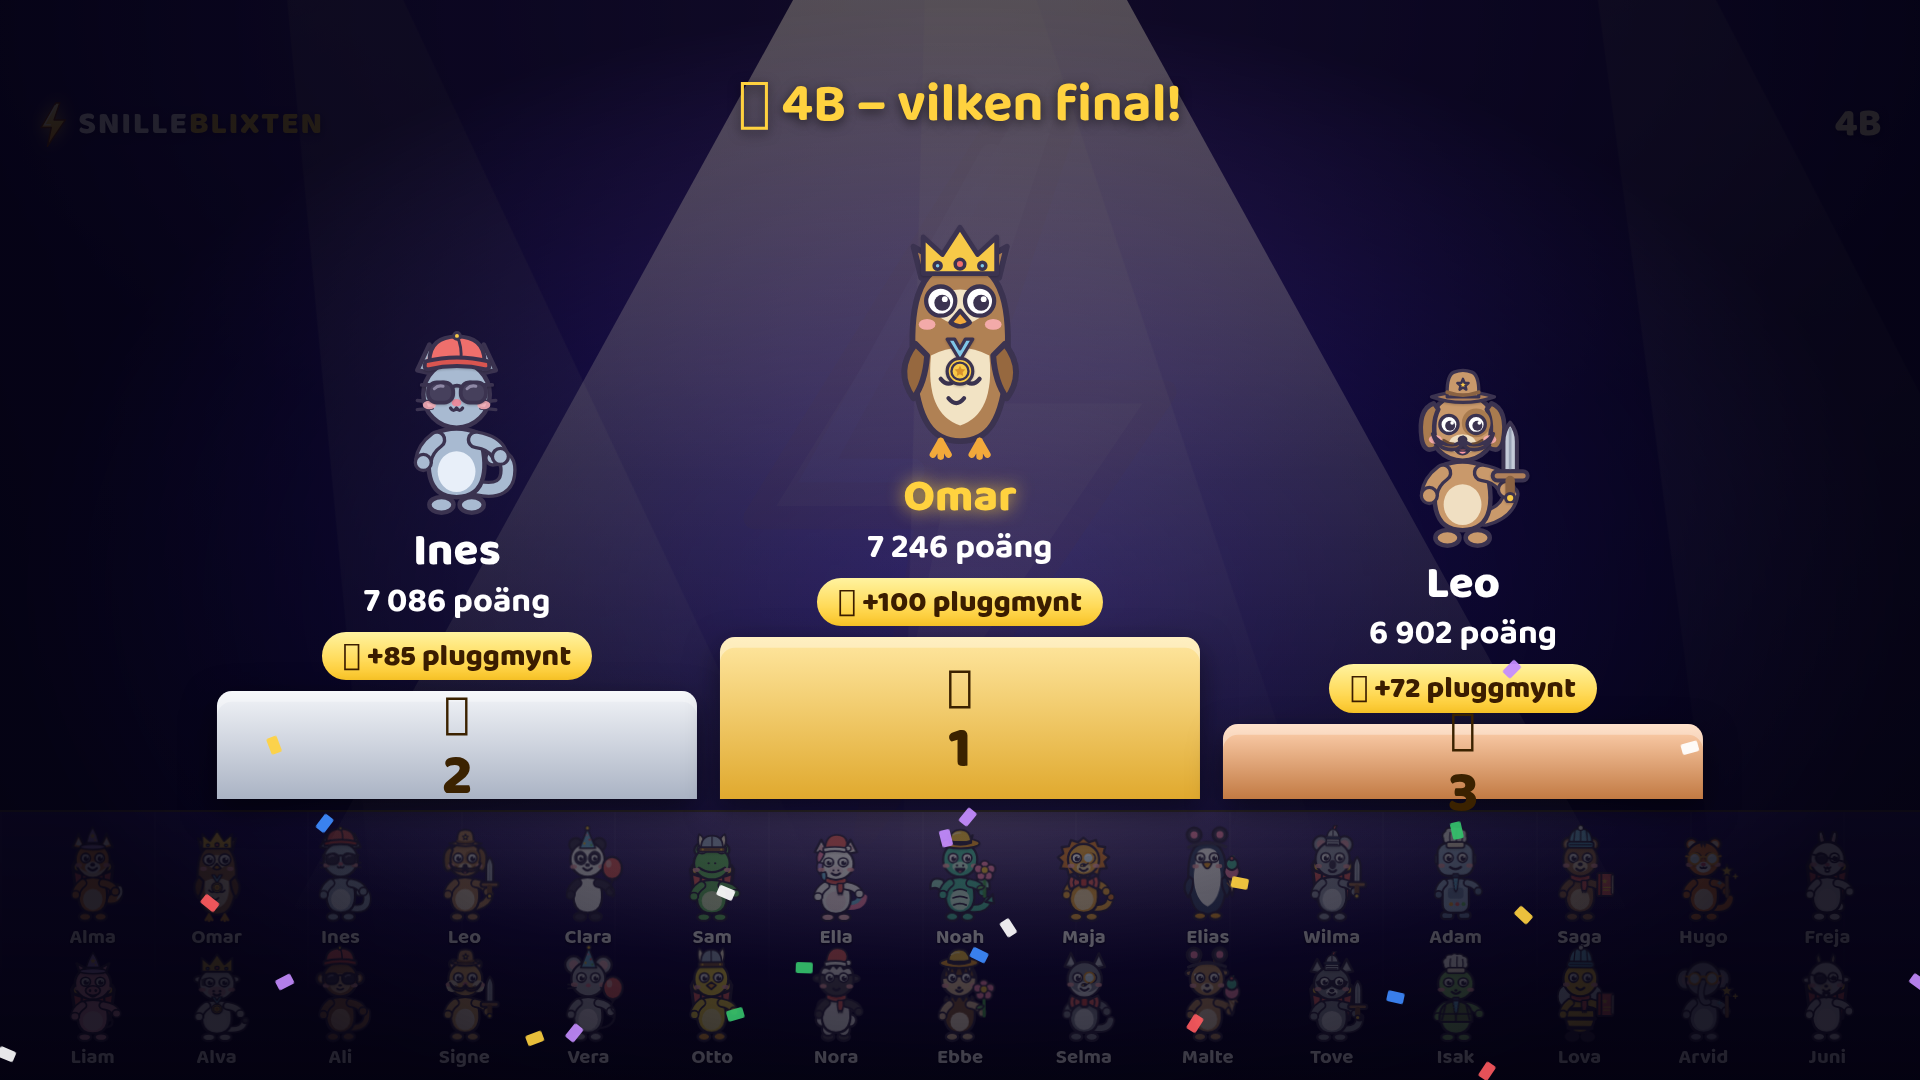
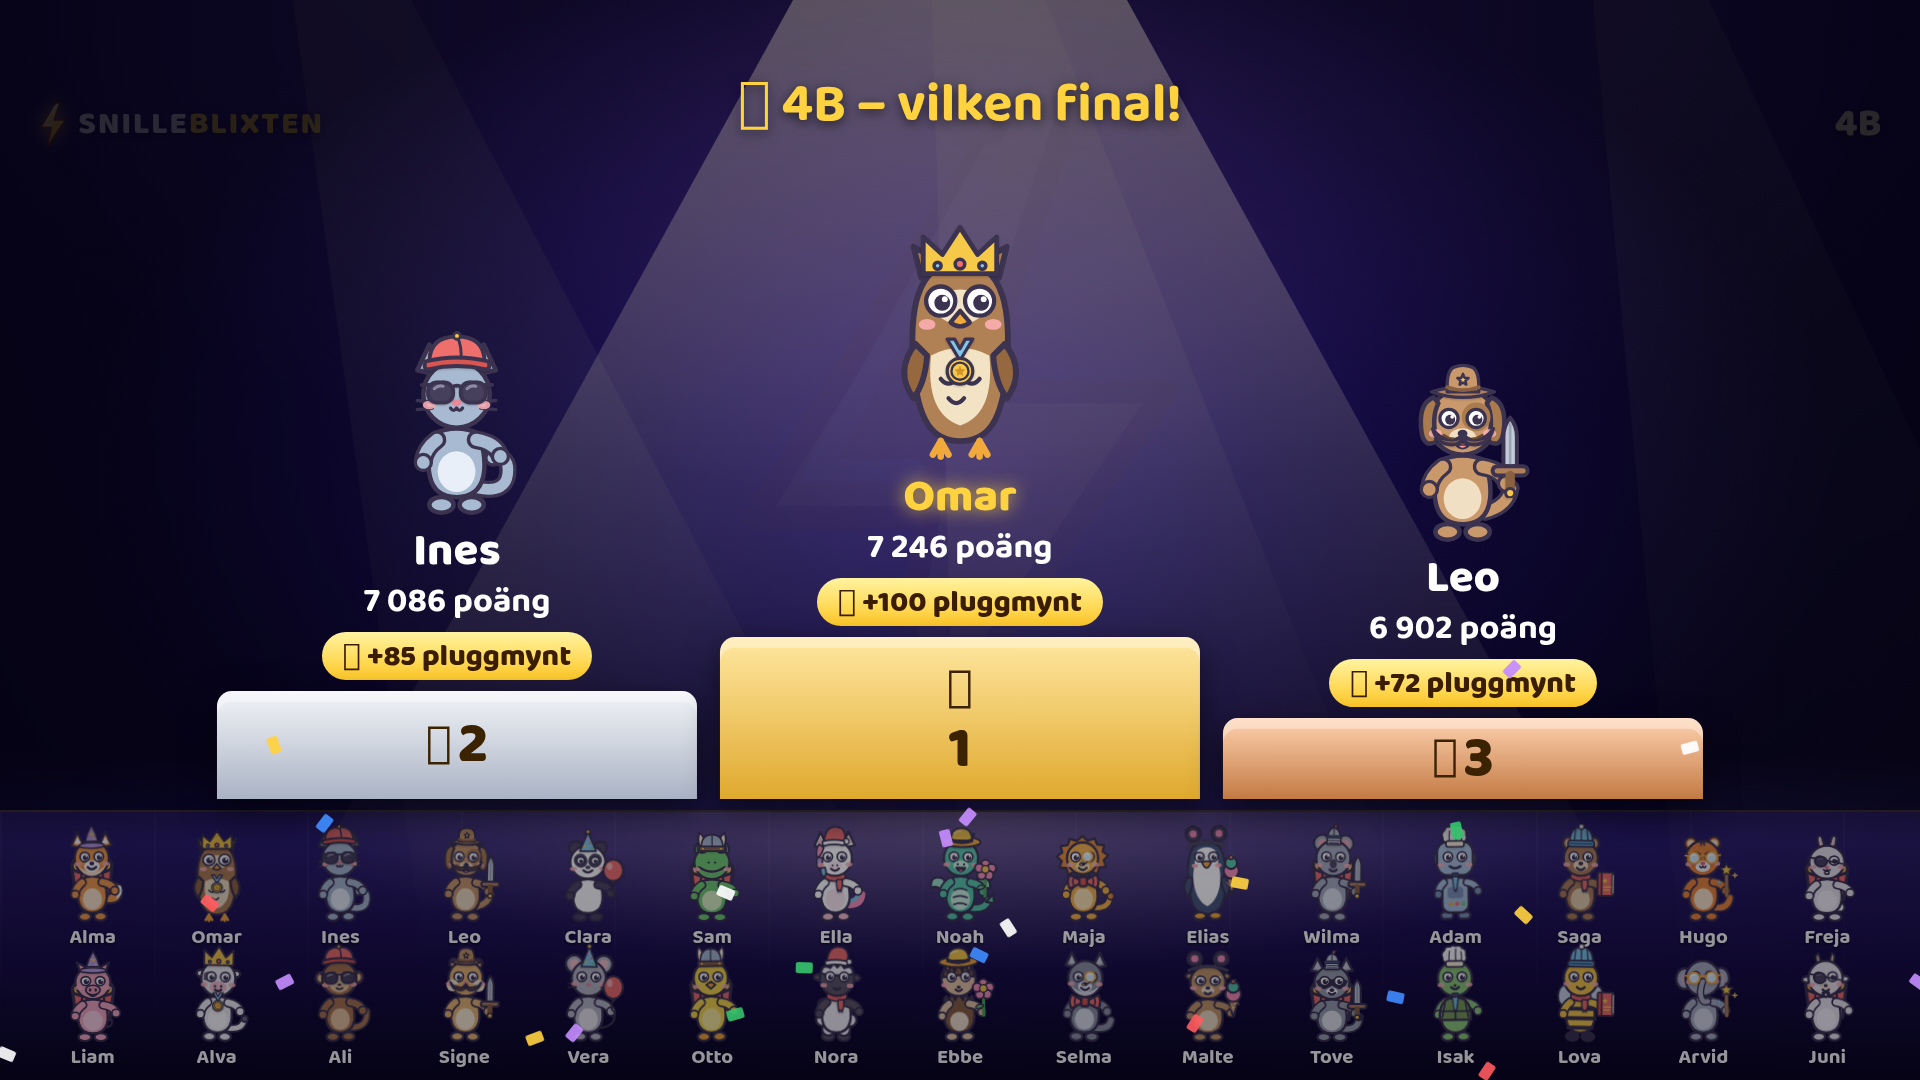
issue #559: design – reducerad rörelse för utropet, finalen ~9 s, ljusare publik i finalen, bronsblock, statistikkolumner; README med testresultat + skärmdumpar

Changed region(s): [[0.0, 0.3361, 1.0, 1.0], [0.2188, 0.6417, 0.25, 0.7333]]

diff --git a/src/live/formats/snilleblixt/sb-pall.js b/src/live/formats/snilleblixt/sb-pall.js
@@ -5,7 +5,7 @@
 //   ljuset dämpas + strålkastarna mot pallen → trumvirvel → 3:an kliver upp →
 //   trumvirvel → 2:an → längre trumvirvel → 1:an med stor blixt, konfetti och
 //   fanfar → vinnaren jublar, de andra (pallen + publiken) klappar/vinkar →
-//   resultatskärmen med hela klassens topplista.
+//   resultatskärmen med hela klassens topplista. Totalt ~8–9 s med tre pallsteg.
 // Delad placering = samma pallsteg (podiumGroups). Pluggmyntpriset för
 // placeringen visas under varje steg (sessionens rewards, #557). Figurerna
 // är avatarpoolens egna element (plats "pall"/"res") – kläderna följer med.
@@ -132,14 +132,14 @@ export function createFinal(host, { pool, sound, flashHost }) {
     // Ljuset dämpas, strålkastarna vänds mot pallen.
     root.getBoundingClientRect();
     root.classList.add("sbf-pa");
-    await wait(700, signal);
+    await wait(600, signal);
     const g = data.groups || [];
     const order = [g[2], g[1], g[0]].filter(Boolean);
     for (let i = 0; i < order.length; i++) {
       if (signal?.aborted) break;
       const winner = i === order.length - 1 && order[i] === g[0];
       sound?.cue?.("trumvirvel");
-      await wait(winner ? 1700 : 1150, signal);
+      await wait(winner ? 1400 : 1000, signal);
       if (winner) {
         if (flashHost) flash(flashHost, { strong: true });
         sound?.cue?.("fanfar");
@@ -152,7 +152,7 @@ export function createFinal(host, { pool, sound, flashHost }) {
         for (const grp of g.slice(1)) for (const p of grp.players) react(pool.el(p.uid, "pall"), "glad", { signal });
         data.cheer?.(g[0].players.map((p) => p.uid));
       }
-      await wait(winner ? 1900 : 450, signal);
+      await wait(winner ? 1000 : 350, signal);
     }
     if (!order.length) await wait(600, signal);
     showResult(data);

diff --git a/src/live/formats/snilleblixt/sb-studio.js b/src/live/formats/snilleblixt/sb-studio.js
@@ -22,7 +22,7 @@
 import { createAvatarPool } from "../../design/live-avatar-pool.js";
 import { createBanner } from "../../design/live-banner.js";
 import { createLiveRegi } from "../../design/live-regi.js";
-import { react } from "../../design/live-reactions.js";
+import { react, prefersReducedMotion } from "../../design/live-reactions.js";
 import { sessionRewards, placementPrize } from "../../live-rewards.js";
 import { toMs } from "../../live-time.js";
 import { studioScene, questionClock, shownScores, revealInfo, streaks, podiumGroups } from "./sb-scen.js";
@@ -138,8 +138,10 @@ export function createStudioView(host, { st, sound = null, actions = {}, screen 
     u.innerHTML = text;
     u.hidden = false;
     u.getAnimations().forEach((a) => a.cancel());
-    u.animate([{ opacity: 0, transform: "scale(.7)" }, { opacity: 1, transform: "scale(1.05)", offset: 0.2 }, { opacity: 1, transform: "none", offset: 0.8 }, { opacity: 0 }],
-      { duration: 1250, easing: "ease-out" }).finished.catch(() => {}).finally(() => { u.hidden = true; });
+    const frames = prefersReducedMotion()
+      ? [{ opacity: 0 }, { opacity: 1, offset: 0.2 }, { opacity: 1, offset: 0.8 }, { opacity: 0 }]
+      : [{ opacity: 0, transform: "scale(.7)" }, { opacity: 1, transform: "scale(1.05)", offset: 0.2 }, { opacity: 1, transform: "none", offset: 0.8 }, { opacity: 0 }];
+    u.animate(frames, { duration: 1250, easing: "ease-out" }).finished.catch(() => {}).finally(() => { u.hidden = true; });
   }
 
   function info(html) {

diff --git a/docs/snilleblixt-studio/README.md b/docs/snilleblixt-studio/README.md
@@ -1,0 +1,48 @@
+# Snilleblixten – TV-studion på projektorn (#559)
+
+Skärmdumparna är tagna ur `preview-snilleblixt-studio.html`, som kör låtsasdata med 30 elever med kläder (avatarerna kommer ur en fejkad klassprojektion). Bilderna finns i 1920×1080 (`-1920`) och 1280×720 (`-1280`). Emoji visas som rutor eftersom testwebbläsaren saknar ett typsnitt för färg-emoji. I en vanlig webbläsare syns de.
+
+| Fil | Vy |
+| --- | --- |
+| 01-lobby | Lobbyn: logga, klass, "30 elever i studion", STARTA och publiken |
+| 02-fraga-flerval | Fråga 4 av 10 med cirkulär nedräkning, 2×2-alternativ med färg och form, publiken med bockar och "N av 30 har svarat" |
+| 03-spanning | De sista 5 sekunderna: nedräkningen är röd och pulserar |
+| 04-avslojande-flerval | Rätt alternativ tänt, felalternativen tonade, staplar med antal |
+| 05a-fraga-skriv / 05-avslojande-skriv | Skriv själv, test 7b (7 × 8): 56 rätt, andel rätt, "54 (5 st) · 64 (3 st)" utan namn |
+| 06-topplista | Topp 5 som avatarer med namn och poäng, 🔥 vid flera rätt i rad |
+| 07-statistik | Statistikvyn: alla elever, poäng, rätt, andel rätt, tid kvar och andel rätt per fråga |
+| 08-pallplats | Finalen: vinnaren jublar under strålkastaren, konfetti, pluggmyntpris under varje steg |
+| 09-resultat-delad | Resultatskärmen med delad 2:a på samma pallsteg och hela klassens topplista |
+
+## Verifierat i webbläsare
+
+Alla tester är gröna.
+
+- **Förhandsvisningen:**
+  - Funktionstest 4: "0 av 30" räknar upp.
+  - 7b, 9 och 12 (delad placering).
+  - Designtest 4: 30 avatarer i 1280×720, inget döljs.
+  - Designtest 5: plats 4 → 1 med FLIP och banderollen "Ny ledare" exakt en gång.
+  - Designtest 8 och 9.
+  - Designtest 11: 30 svar på 1,2 s gav bara några få bock-toner.
+  - Designtest 12: reducerad rörelse, 0 animationer med förflyttning, ingen konfetti, stilla strålkastare.
+  - Omladdning mitt i spelet och efter finalen: finalen spelas inte om.
+  - Elevskärmsfönstret följer vyvalet och visar inga kontroller.
+- **Riktiga appen mot emulatorn** (`admin/qa-snilleblixt-preview.sh` med elevsimulatorn från #558):
+  - Session med 19 elever.
+  - 3-2-1 leder till att fråga 1 öppnas automatiskt.
+  - Alla svarar: frågan stängs och avslöjas.
+  - NÄSTA FRÅGA, Hoppa över, Avsluta frågan nu och Avsluta spelet (med bekräftelse) fungerar.
+  - Pallplatsen spelas, sedan skrivs result.
+  - Efter omladdning visas resultatet direkt.
+- **Designtest 13 (Klassmatchen):** Raketrace, Statistik, Dragkamp, Trollkarlsduellen, timern och Avsluta fungerar som förut. Vinnarskärmen visas även när ett vyval från Snilleblixten finns sparat.
+- **Test 10 (två lärare):** täcks av ett enhetstest (`test/live-snilleblixt-studio.test.js`) och av transaktionerna och reglerna från #556.
+
+## Designbeslut
+
+- **Tidslinje efter en fråga:** först avslöjandet i 5,5 s, sedan glider topplistan in. Listan visar först ställningen före frågan och klättrar sedan till den nya. Tidpunkten räknas ur serverstämpeln `closedAt`, så kontrollpanelen och elevskärmen visar samma sak samtidigt.
+- **Lärarautomatik:** projektorn öppnar själv fråga 1 efter KÖR!, stänger frågan när tiden är ute eller alla har svarat och avslöjar efter trumvirveln. Varje steg är en transaktion, så flera fönster ger ändå exakt ett steg.
+- **Två vyer:** ⚡ Studion och 📊 Statistik. Båda har egna lärarkontroller, så spelet går vidare även när statistiken visas. Pallplatsen spelas i Studion.
+- **🔥 + antal** visar bara rätt svar i rad. Spelet har ingen svitbonus.
+- **Textstorlek:** namnen under publikens avatarer och statistiktabellen med 30 elever är under 28 px i 1280×720. Allt annat viktigt (fråga, alternativ, nedräkning, "N av M har svarat", topplistan och pallen) är minst 28 px.
+- **Ljud:** syntetiserat med Web Audio i den befintliga ljudkön, inga ljudfiler. Nya ljud är `tick` (sista 10 s) och `tickSnabb` (sista 5 s).
